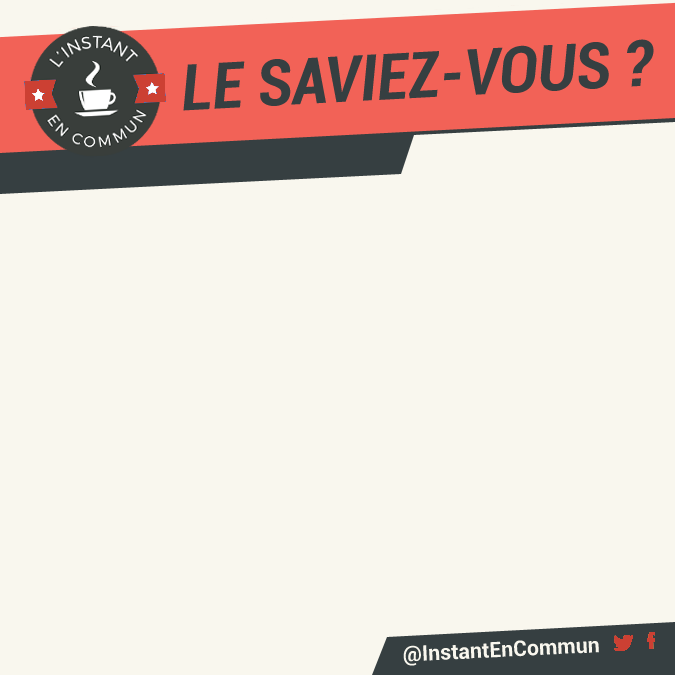
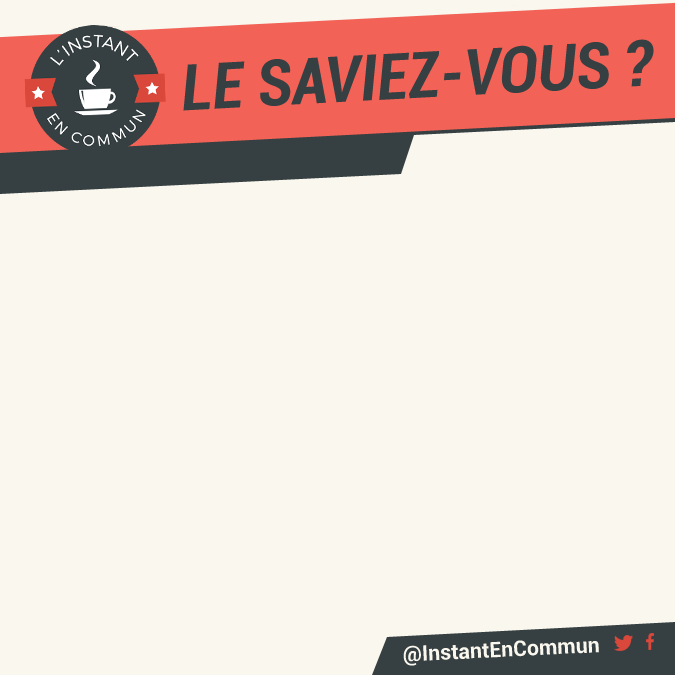
Nouveaux templates

Changed region(s): [[0.0311, 0.0311, 0.2178, 0.2178], [0.9022, 0.9333, 0.9333, 0.9644]]

diff --git a/obsapis/controllers/instantencommun.py b/obsapis/controllers/instantencommun.py
@@ -24,7 +24,7 @@ def visueliec1(theme,titre,couleur,contenu):
 "bleu": "#4575b5",
 "vert": "#6bb592",
 "jaune": "#edbd45",
-"orange": "#d987df",
+"orange": "#fa9a46",
 "rouge": "#cc4033" }
 
 
@@ -62,7 +62,7 @@ def visueliec1(theme,titre,couleur,contenu):
      'encoding': "UTF-8",
     }
     htmlsource = html % (couleurs[couleur],markdown.markdown(contenu))
-    
+
     img = imgkit.from_string(htmlsource,False,options=options)
     im = Image.open(BytesIO(img))
 
